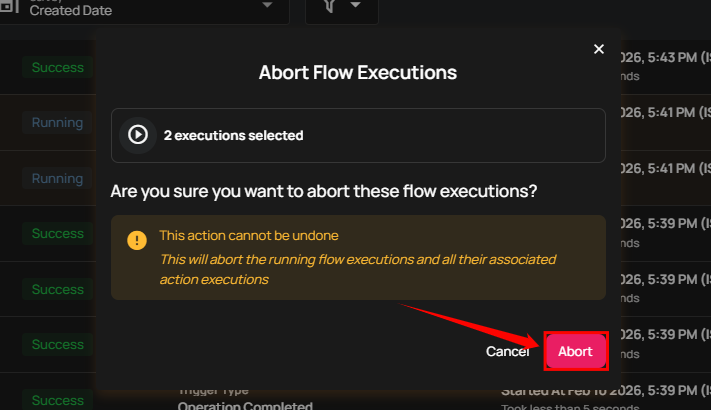
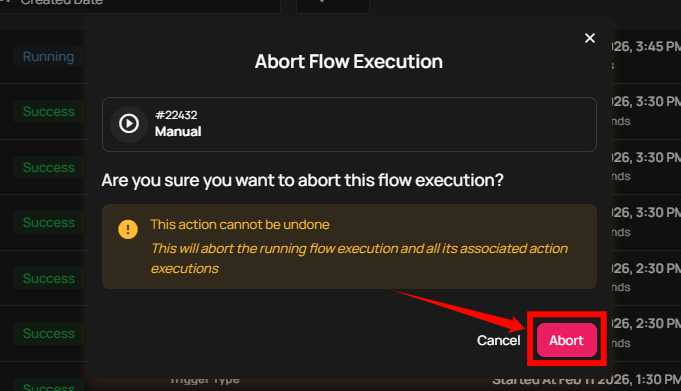
QUA-1394: Update "Abort Flow" userguide.

diff --git a/docs/flows/abort.md b/docs/flows/abort.md
@@ -32,7 +32,7 @@ When multiple executions are selected, an action toolbar appears showing the tot
 
 ![chart](../assets/flows/abort-bulk.png)
 
-**Step 3:** Click **Abort** from the action toolbar.
+**Step 2:** Click on the vertical ellipsis (⋮), and select the **Abort** option from the action toolbar.
 
 ![chart](../assets/flows/abort-action.png)
 
